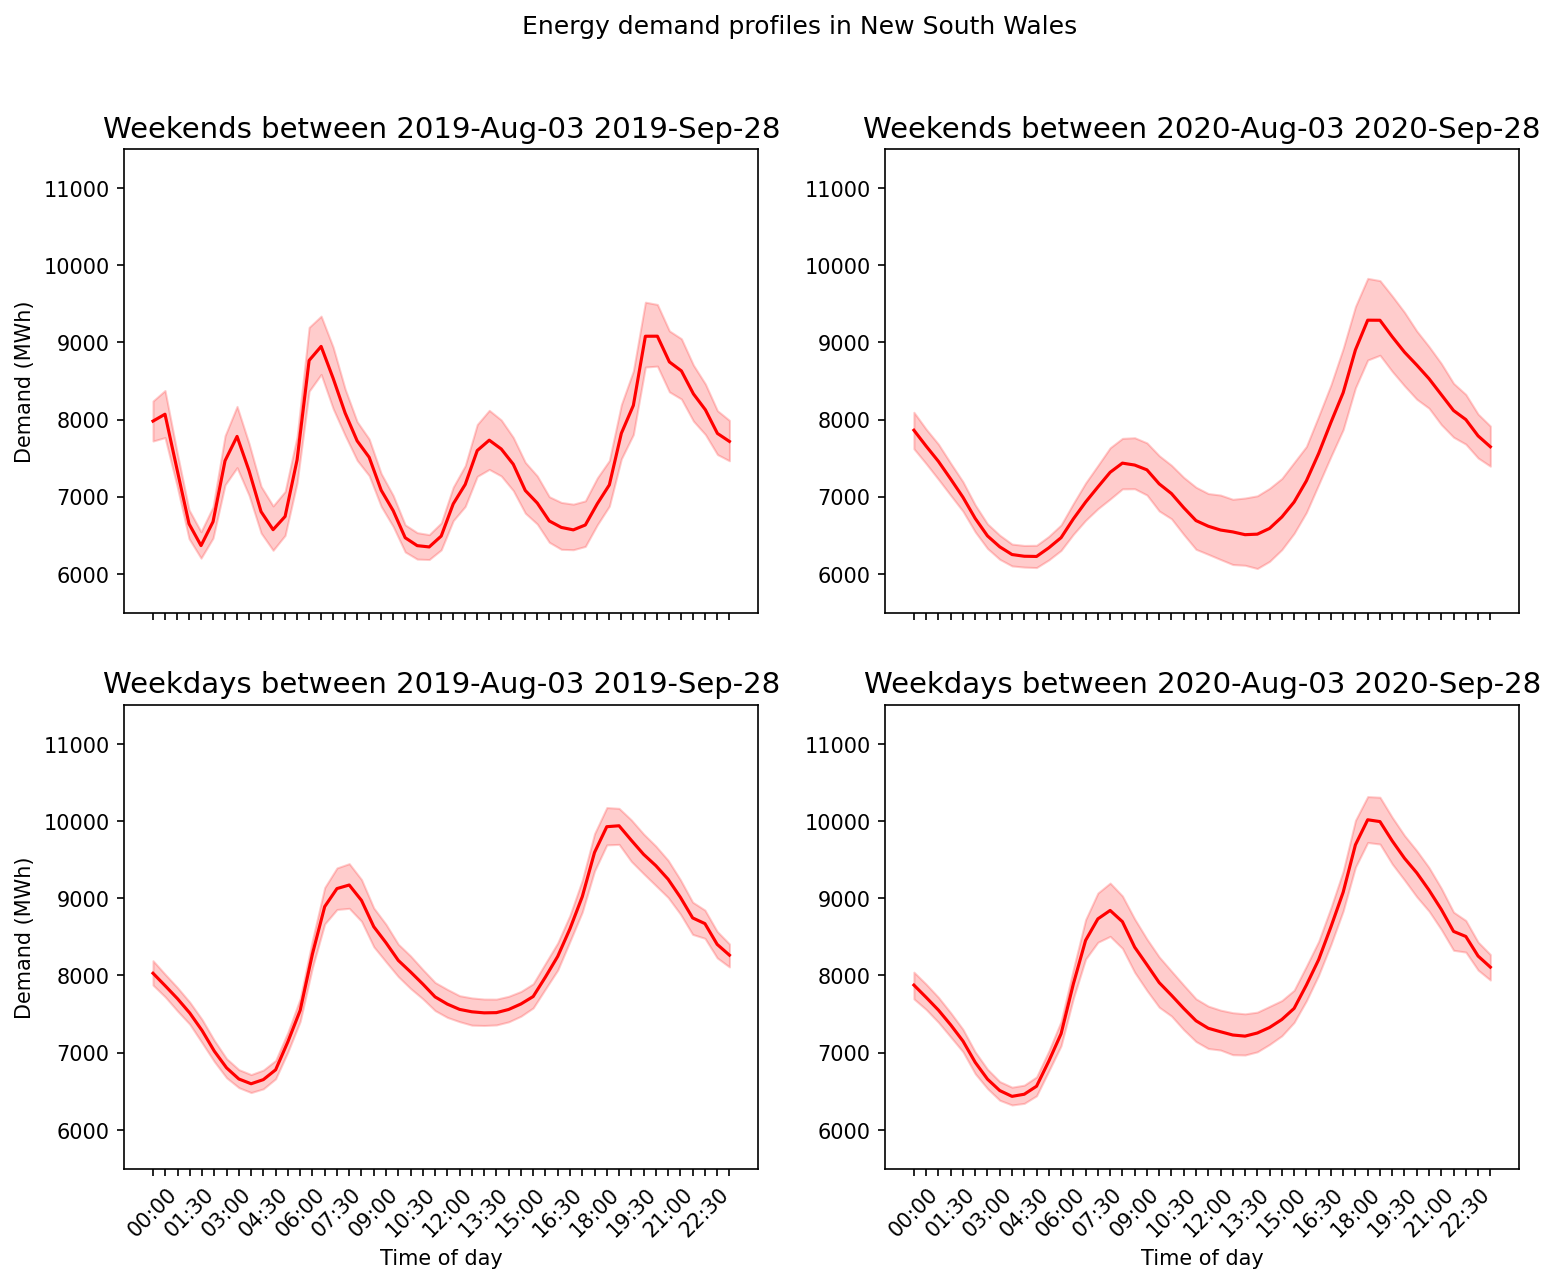
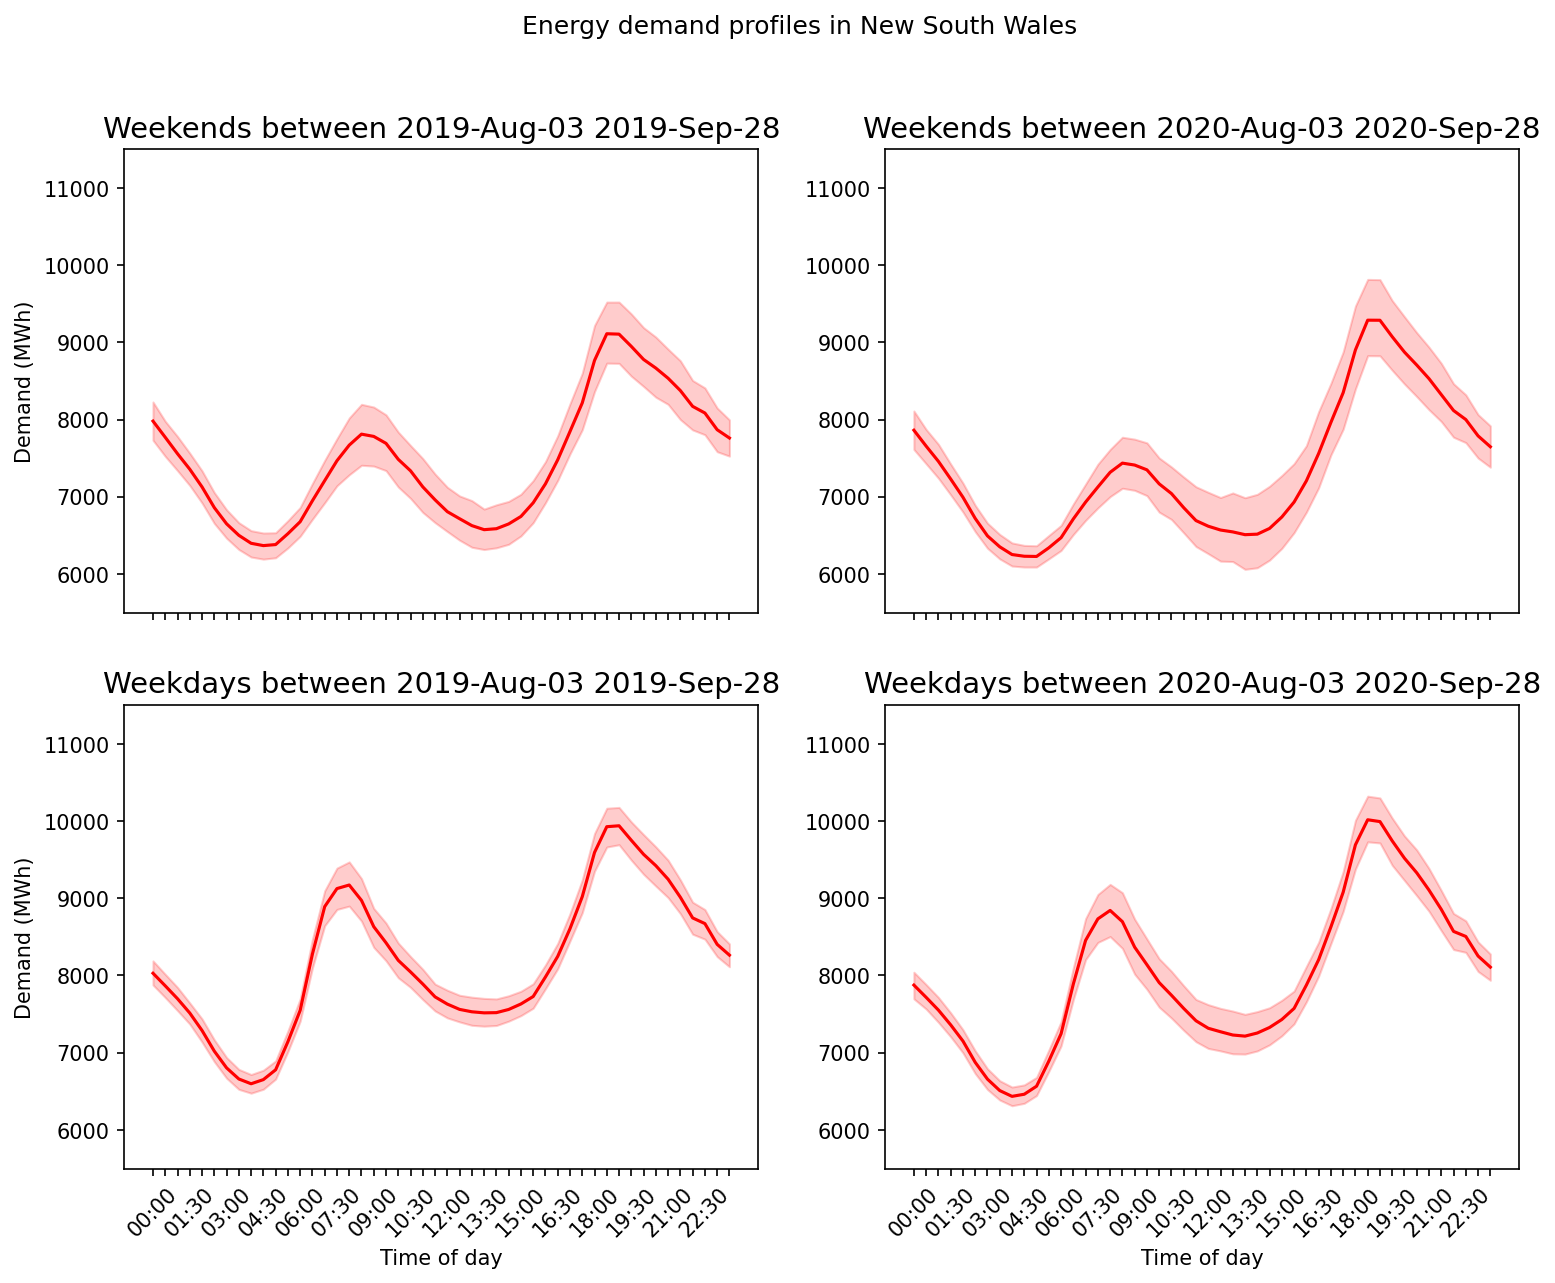
Fixed error with evening spike

Changed region(s): [[0.0926, 0.2182, 0.463, 0.4365]]

diff --git a/post/energy-consumption-pandemic-part-a/index.html b/post/energy-consumption-pandemic-part-a/index.html
@@ -886,10 +886,10 @@ requirements.</p>
 <figure >
 
 
-  <a data-fancybox="" href="/post/energy-consumption-pandemic-part-a/VIC_profiles_hu1a01ad05e0afb43abf9d18ec7319c84e_203947_2000x2000_fit_lanczos_2.png" >
+  <a data-fancybox="" href="/post/energy-consumption-pandemic-part-a/VIC_profiles_hud8c4ed02445b99766836fe8dcc6fdd3a_196208_2000x2000_fit_lanczos_2.png" >
 
 
-  <img data-src="/post/energy-consumption-pandemic-part-a/VIC_profiles_hu1a01ad05e0afb43abf9d18ec7319c84e_203947_2000x2000_fit_lanczos_2.png" class="lazyload" alt="" width="1542" height="1283">
+  <img data-src="/post/energy-consumption-pandemic-part-a/VIC_profiles_hud8c4ed02445b99766836fe8dcc6fdd3a_196208_2000x2000_fit_lanczos_2.png" class="lazyload" alt="" width="1542" height="1283">
 </a>
 
 
@@ -898,8 +898,8 @@ requirements.</p>
 
 <p>Key takeaway messages from reviewing Victorian energy demand data include:</p>
 <ol>
-<li>Our weekends are looking quite similar to our weekdays.</li>
-<li>Weekend peaks associated with night-time activity are not evident during the current restrictions.</li>
+<li>Our weekends are looking less regular.</li>
+<li>Midday demand is flatter on weekends.</li>
 <li>Weekend energy demand shows more variation, particularly during stage 4 restrictions between 7 AM and 3PM.</li>
 </ol>
 <h2 id="new-south-wales-energy-consumption-profiles-during-victorias-stage-4-restrictions"><strong>New South Wales energy consumption profiles during Victoria&rsquo;s stage 4 restrictions</strong></h2>
@@ -932,10 +932,10 @@ Let&rsquo;s look at the neighbouring state of NSW.</p>
 <figure >
 
 
-  <a data-fancybox="" href="/post/energy-consumption-pandemic-part-a/NSW_profiles_hua080799e35a2e51567557856e2654181_193689_2000x2000_fit_lanczos_2.png" >
+  <a data-fancybox="" href="/post/energy-consumption-pandemic-part-a/NSW_profiles_huf558fdf2d92caad69a4b55d2bd962063_185734_2000x2000_fit_lanczos_2.png" >
 
 
-  <img data-src="/post/energy-consumption-pandemic-part-a/NSW_profiles_hua080799e35a2e51567557856e2654181_193689_2000x2000_fit_lanczos_2.png" class="lazyload" alt="" width="1555" height="1283">
+  <img data-src="/post/energy-consumption-pandemic-part-a/NSW_profiles_huf558fdf2d92caad69a4b55d2bd962063_185734_2000x2000_fit_lanczos_2.png" class="lazyload" alt="" width="1555" height="1283">
 </a>
 
 
@@ -944,7 +944,7 @@ Let&rsquo;s look at the neighbouring state of NSW.</p>
 
 <p>Key takeaway messages from reviewing NSW energy demand data include:</p>
 <ol>
-<li>Night-time activity has also decreased in NSW.</li>
+<li>There are less changes changes in midday demand on the weekends.</li>
 <li>Less restrictions in NSW may be associated with more consistency in electricity demand.</li>
 <li><strong>Aggregated energy demand across NSW and Victoria has not significantly changed.</strong>
 This was not expected. It is quite possible that increases in 
@@ -1093,7 +1093,8 @@ for more information.</li>
 are a number of other important factors to consider.</li>
 </ol>
 <h2 id="summary">Summary</h2>
-<p>Weekend electricity demand is comparable to weekday electricity demand.
+<p>When compared to this time last year, weekend electricity demand under the
+current restrictions is less regular for Victoria.
 COVID-19, among other factors, has driven the regional reference price for
 electricity to a 5 year low.</p>
 <p>2020 has been a year of uncertainty and the need for good quality forecasts has
